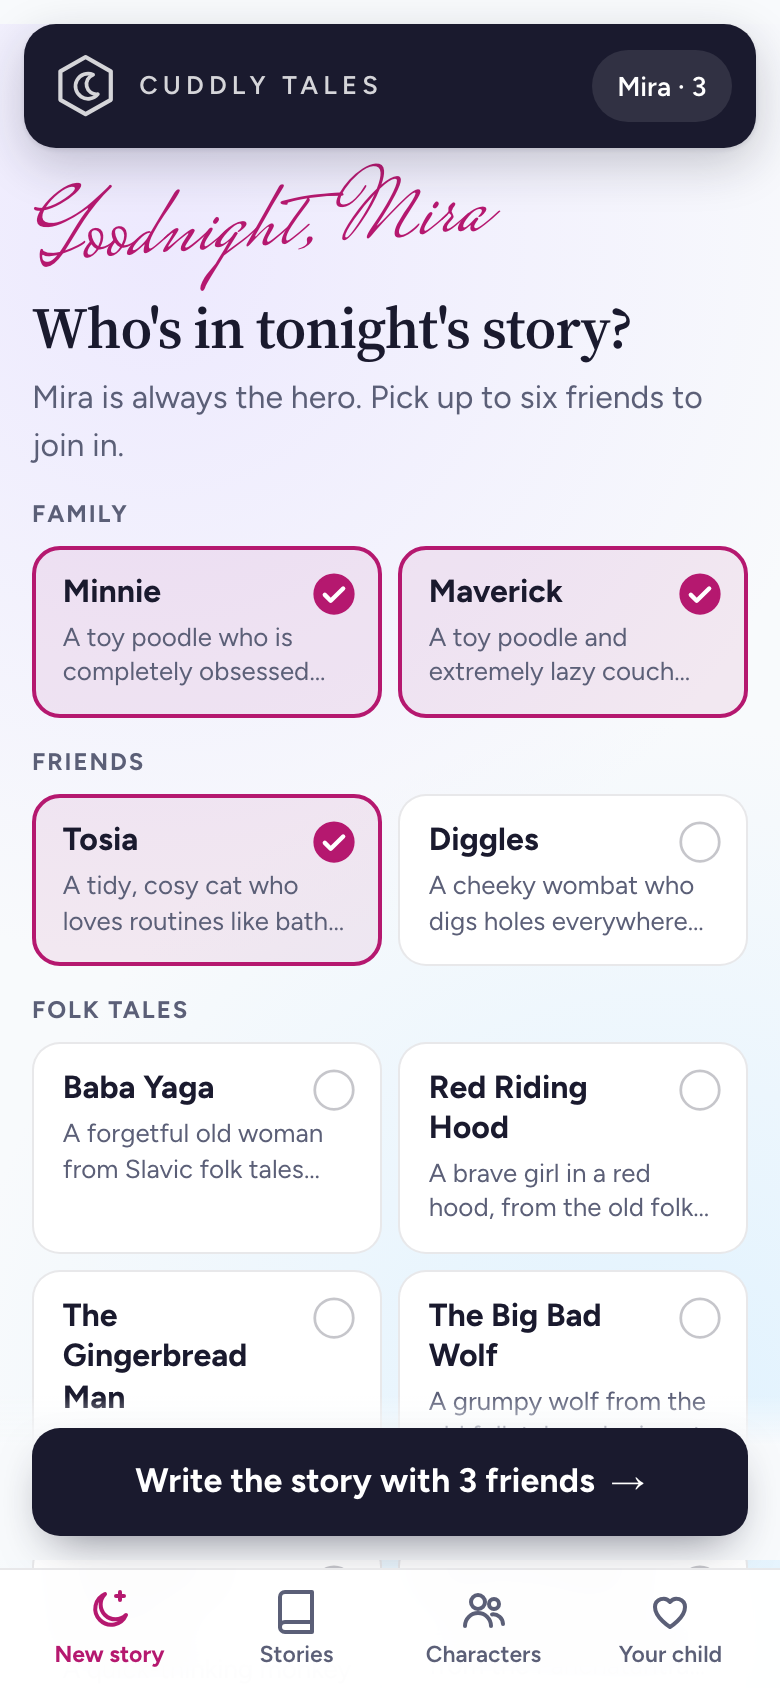
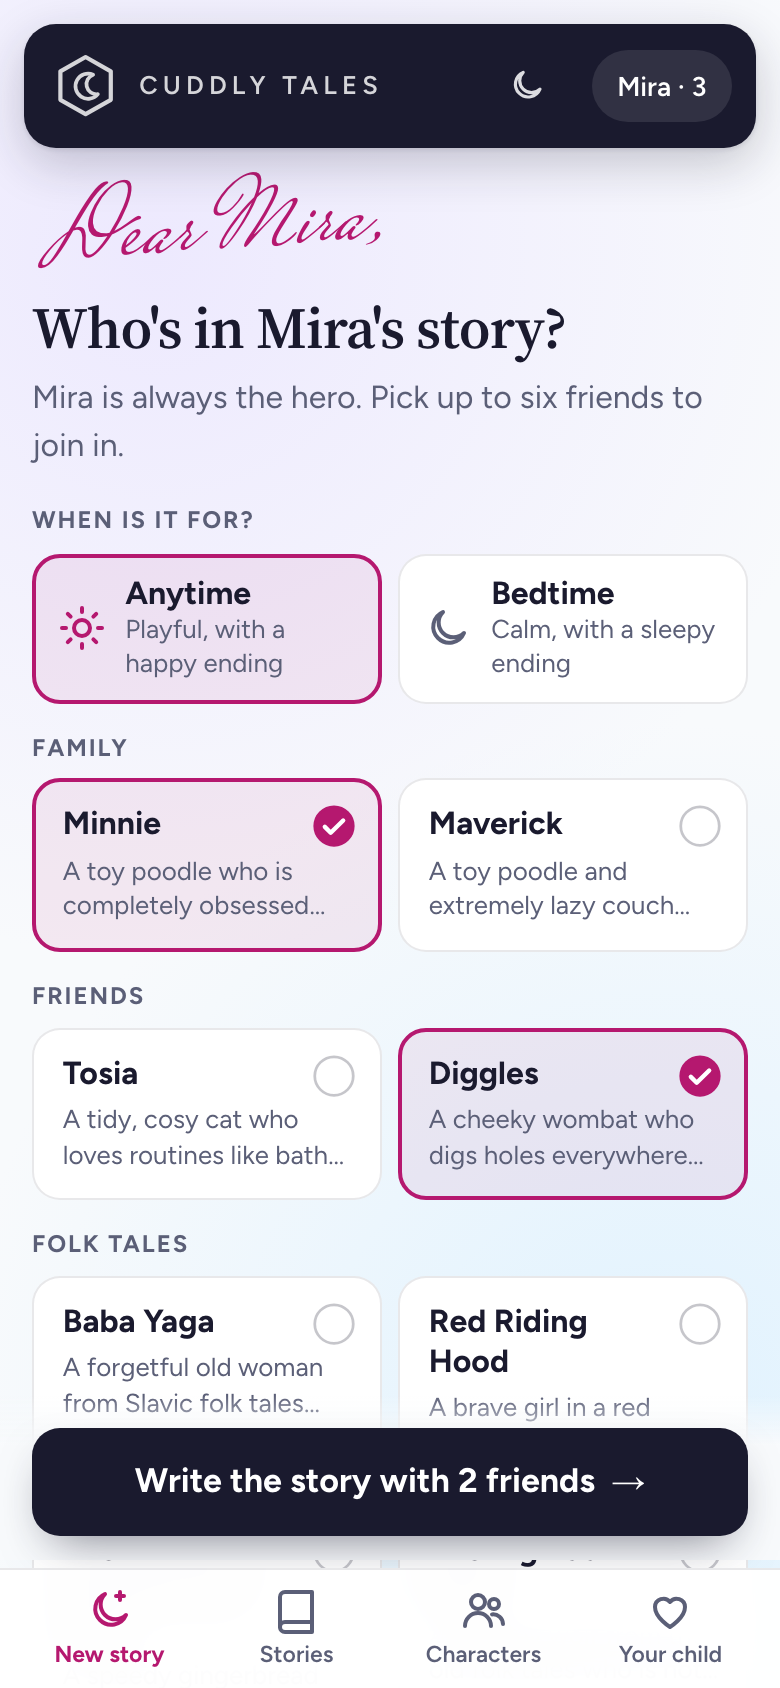
Docs: stories for any time, with bedtime as an option
- README and CLAUDE.md describe stories for any time of day or bedtime;
  content rules: a warm, happy ending, and a calm one for bedtime
- the pick-page screenshot shows the new greeting and choice

diff --git a/README.md b/README.md
@@ -1,20 +1,22 @@
 # Cuddly Tales
 
-Gentle bedtime stories for young children (ages 2–6), with the child as the hero alongside their
-family, pets, original characters and public-domain folklore. A parent picks tonight's cast, and the
-story is written by an LLM and streamed to the screen word by word, ready to read aloud.
+Gentle stories for young children (ages 2–6), with the child as the hero alongside their family,
+pets, original characters and public-domain folklore. A parent picks the cast and whether it's for
+any time of day or bedtime, and the story is written by an LLM and streamed to the screen word by
+word, ready to read aloud.
 
 **Live: https://cuddly-tales.ukdoshi.com** (public; new stories are capped at 30 a day)
 
 <p>
-  <img src="docs/screenshots/pick-the-cast.png" width="200" alt="Picking tonight's cast: Minnie, Maverick and Tosia chosen, with a 'Write the story with 3 friends' button">
+  <img src="docs/screenshots/pick-the-cast.png" width="200" alt="Picking the cast: 'Dear Mira, who's in Mira's story?', Anytime or Bedtime, Minnie and Diggles chosen, and a 'Write the story with 2 friends' button">
   <img src="docs/screenshots/story-streaming.png" width="200" alt="The story arriving word by word in night mode, with 'Still writing · 32 words so far'">
   <img src="docs/screenshots/reading-night-mode.png" width="200" alt="Reading the finished story in night mode, with the Polish word gwiazda in italics">
   <img src="docs/screenshots/your-stories.png" width="200" alt="Your stories: filter chips and story cards marked Not read yet or Read">
 </p>
 
-Designed for a parent's phone at bedtime, in the style of [ukdoshi.com](https://ukdoshi.com): pick the
-cast, watch the story arrive in night mode, then read it aloud in large type.
+Designed for a parent's phone, in the style of [ukdoshi.com](https://ukdoshi.com): pick the cast,
+watch the story arrive, then read it aloud in large type. Bedtime stories end calm and sleepy and open
+in night mode; the whole site has a light and a dark theme.
 
 > Built for a take-home assessment over three days. Day 1 is done; this README grows with each
 > feature, and the table below shows what's in place and what's next.

diff --git a/CLAUDE.md b/CLAUDE.md
@@ -2,7 +2,8 @@
 
 ## What this is
 A take-home assessment app (due in 3 days) for a Head of Engineering (AI) role.
-"Cuddly Tales" generates short, gentle bedtime stories for young children (ages 2–6), starring
+"Cuddly Tales" generates short, gentle stories for young children (ages 2–6), for any time of day or
+as a calm bedtime story, starring
 the child as the hero, their family and pets, original characters, public-domain folklore, and
 "latte monsters" created from photos of latte art. Any family can use it: a parent sets up
 the child's profile (name, age, favourite things) and their own characters. The seed data is
@@ -39,7 +40,7 @@ checks, decides and acts. It is not a chatbot bolted onto a form.
   Age drives story length, vocabulary and the scariness limit.
 - **Character**: name, type (family | original | folklore | latte_monster | custom), description,
   personality traits, running gags / consistency rules, image (optional, latte monsters only).
-- **Story**: title, characters (many-to-many), plot cards (ordered), status
+- **Story**: title, characters (many-to-many), plot cards (ordered), bedtime (yes/no), status
   (idea | planned | written | read), text, reading time, safety check result, created/read dates.
 - **PlotCard**: story id, position, short beat text.
 - **AgentRun**: goal, status, ordered steps (tool name, input summary, output summary, timestamps).
@@ -61,7 +62,8 @@ checks, decides and acts. It is not a chatbot bolted onto a form.
   Parents may add custom characters at runtime; those are user data and never committed.
 - No real children's names or family photos in the repo.
 - Stories match the child's age (default 3): a 3–5 minute read (roughly 300–600 words for age 3),
-  simple vocabulary, nothing frightening, a warm and calm ending suitable for sleep.
+  simple vocabulary, nothing frightening, and a warm, happy ending. A bedtime story (the parent's choice per
+  story) ends calm and ready for sleep, and reads in night mode.
 
 ## AI features
 1. **Story generation (streaming)**: build the prompt from the selected characters, their rules and the ordered plot cards; stream the text.
